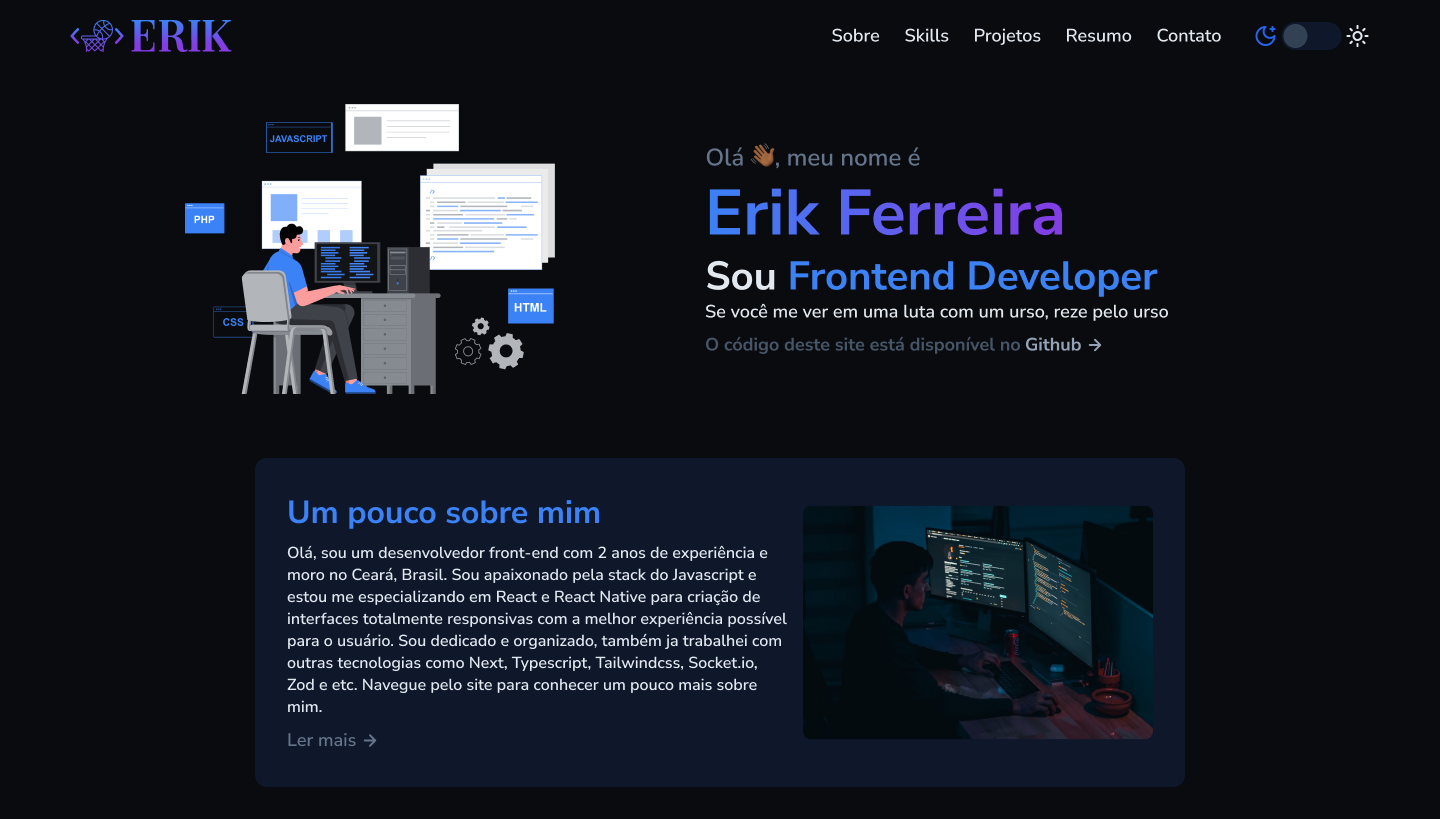
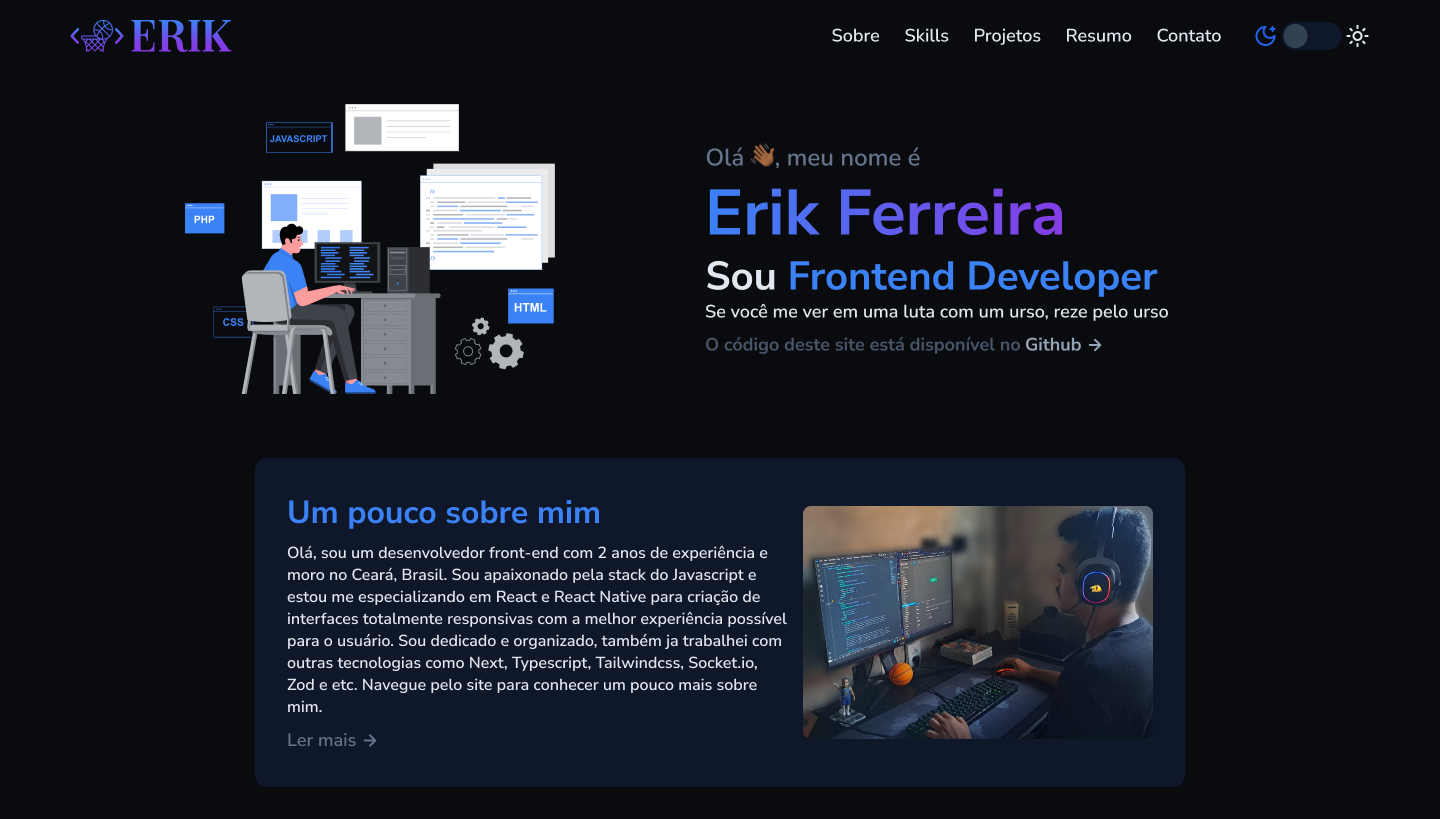
updated images

Changed region(s): [[0.5312, 0.6105, 0.8125, 0.9158]]

diff --git a/src/components/home/Resume.tsx b/src/components/home/Resume.tsx
@@ -8,7 +8,7 @@ import { illustrations } from "@/defaults/illustrations"
 
 import { twMerge } from "@/utils/twMerge"
 
-import preview from "@/assets/preview.png"
+import aboutMePNG from "@/assets/about-me.png"
 
 interface ResumeProps extends ComponentProps<"section"> {}
 
@@ -178,10 +178,10 @@ export function Resume({ className, ...rest }: ResumeProps) {
 
         <div className="w-[18.75rem] min-[820px]:w-[21.875rem]">
           <Image
-            src={preview}
+            src={aboutMePNG}
             alt="Uma imagem minha trabalhando em alguns projetos em casa"
-            width={350}
-            height={233}
+            width={1600}
+            height={1200}
             className="rounded-lg w-full h-full object-contain"
           />
         </div>
